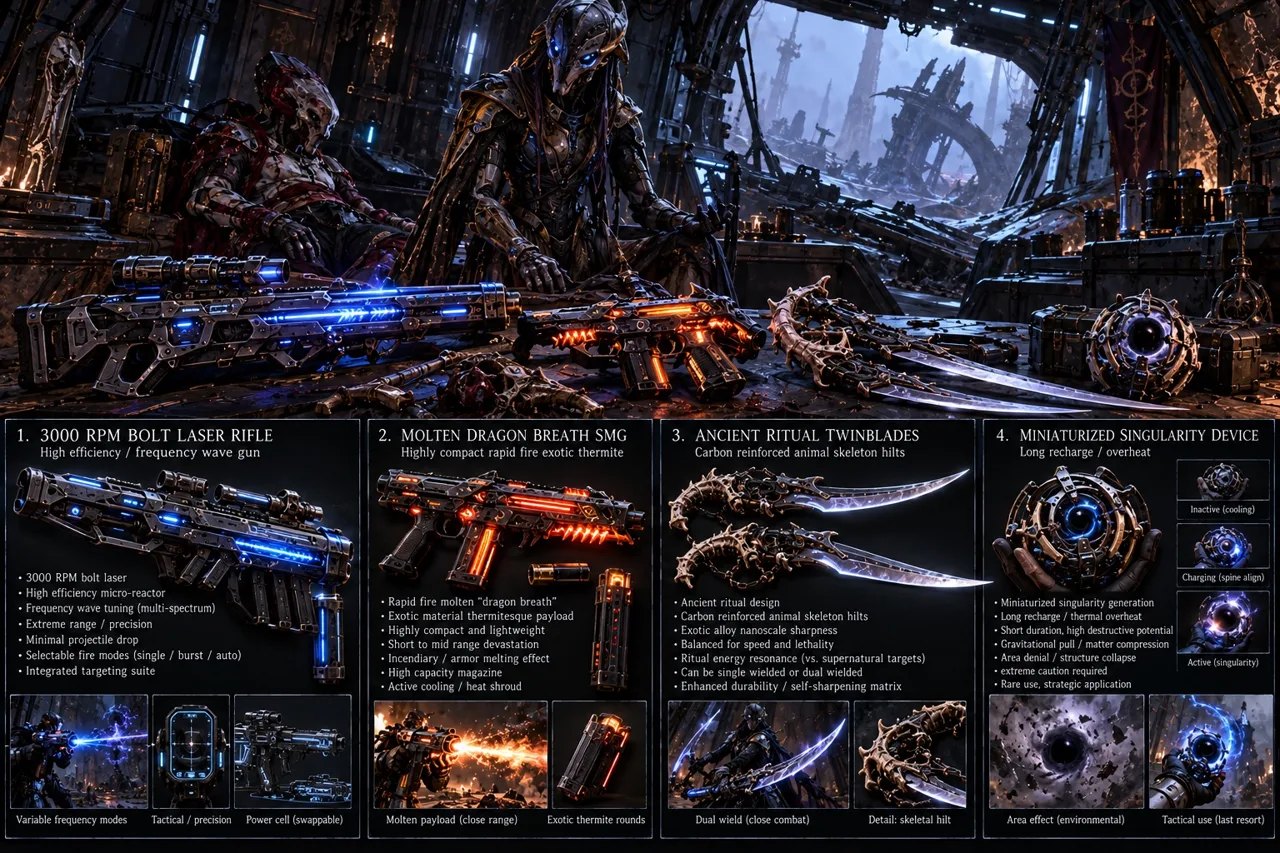
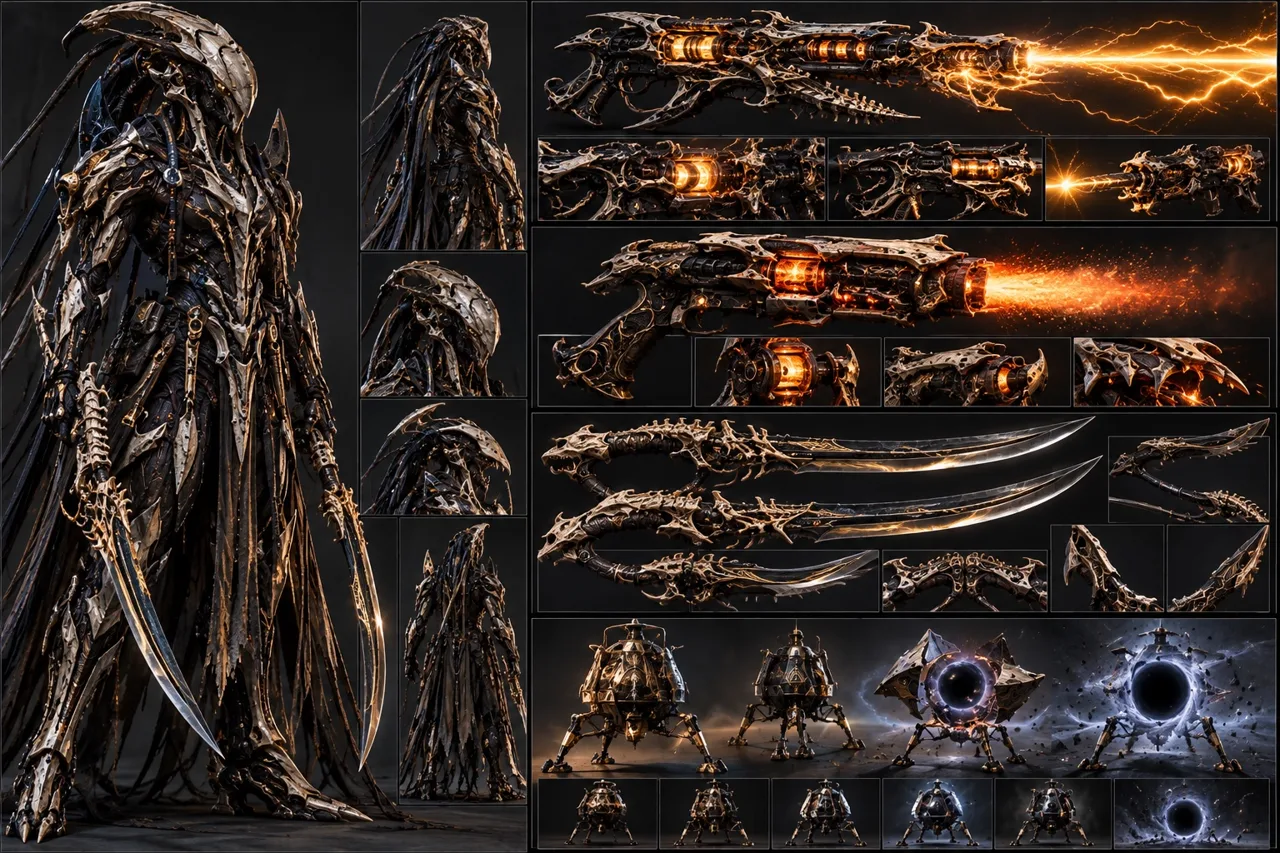
Use revised Alien sheet and supplied equipment identities

diff --git a/apps/item-web/lib/character-loadouts.ts b/apps/item-web/lib/character-loadouts.ts
@@ -9,11 +9,11 @@ export const STARTING_LOADOUTS:Record<string,StartingLoadout>={
  'knight-aldric':{id:'knight-1',name:'AK / katana',image:'knight-1.webp',source:'0FE6D164-3A28-4DF9-BBF0-90B44742FB2A(1).jpeg',status:'reference-approved',equipment:['AK-47','Glock 18','SPAS-12','Masamune replica katana']},
  'knight-cassian':{id:'knight-2',name:'SBR / Excalibur',image:'knight-2.webp',source:'18A13DE7-BB39-4526-9018-BD589E0D0606(1).jpeg',status:'reference-approved',equipment:['Suppressed SBR','Akimbo Colt King Cobra','McMillan TAC-50','Excalibur replica']},
  'knight-rook':{id:'knight-3',name:'MP5 / gladius',image:'knight-3.webp',source:'177EC8A8-422B-4CDE-9A46-95E673E70DB3(1).jpeg',status:'reference-approved',equipment:['MP5','Desert Eagle','MG3','Mainz gladius replica']},
- "alien-saela":{"id": "alien-1", "name": "Astral arsenal", "image": "alien-1.webp", "source": "8691E3C5-6A5F-4E8B-AFA4-3B1BCDE8BE76(1).jpeg", "status": "reference-approved", "equipment": ["Ringed energy cannon", "Mechanical jaw gauntlet", "Orbital crescent staff", "Ultraviolet energy lance"], "provisionalNames": true},
+ "alien-saela":{"id": "alien-1", "name": "Astral arsenal", "image": "alien-1.webp", "source": "8691E3C5-6A5F-4E8B-AFA4-3B1BCDE8BE76(1).jpeg", "status": "reference-approved", "equipment": ["Magneto-fusion pulse heavy beam", "Predator-skull scissor gauntlet", "The Star Summoner", "The Negation Ray"]},
  "alien-nyrra":{"id": "alien-2", "name": "Reactor / shrieker", "image": "alien-2.webp", "source": "IMG_6029(1).jpeg", "status": "reference-approved", "equipment": ["Reactor laser rifle", "Invertocavitation sidearm", "Alien shrieker", "Twin-blade glaive"]},
- "alien-ithara":{"id": "alien-3", "name": "Bolt laser / singularity", "image": "alien-3.webp", "source": "8CCC8659-AD25-49B6-9B83-0F4B0DEE33FF(1).jpeg", "status": "reference-approved", "equipment": ["Bolt laser rifle", "Molten dragon-breath SMG", "Ancient ritual twinblades", "Miniaturized singularity device"]},
+ "alien-ithara":{"id": "alien-3", "name": "Lightning / singularity", "image": "alien-3.webp", "source": "7DE92A7B-F259-40A1-84DA-D1BB48619760.jpeg", "status": "reference-approved", "equipment": ["Micro-reactor lightning rifle", "Molten dragon-breath shotgun pistol", "Ancient ritual twinblades", "Miniaturized singularity device"]},
  "cyborg-parallax":{"id": "cyborg-1", "name": "Axe / drone forge", "image": "cyborg-1.webp", "source": "9CB83F57-195D-44C2-AA95-6A2F47A476B0.jpeg", "status": "reference-approved", "equipment": ["White-hot double axe / warhammer", "Shoulder-mounted twin machine guns", "Miniature drone dispenser", "High-temperature wrist laser"]},
  "cyborg-nacre":{"id": "cyborg-2", "name": "Minigun / forearm lance", "image": "cyborg-2.webp", "source": "IMG_6030.jpeg", "status": "reference-approved", "equipment": ["Exo-arm minigun", "Dual-barrel magazine pump", "Vector-derived handgun", "Forearm lance"]},
- "cyborg-axiom":{"id": "cyborg-3", "name": "Barrage / optic beam", "image": "cyborg-3.webp", "source": "7294DE17-16BF-4122-9833-C30BAFBFFC20.jpeg", "status": "reference-approved", "equipment": ["Multi-barrel forearm launcher", "Powered forearm claws", "Shoulder-mounted drum launcher", "Twin optic beams"], "provisionalNames": true},
+ "cyborg-axiom":{"id": "cyborg-3", "name": "Barrage / optic beam", "image": "cyborg-3.webp", "source": "7294DE17-16BF-4122-9833-C30BAFBFFC20.jpeg", "status": "reference-approved", "equipment": ["Folding arm rocket pod", "Rocket-assisted slab-and-claw fist", "Shoulder-fired automatic grenade launcher", "Golden laser eyes"]},
 };
 export const loadoutFor=(profile:CharacterProfile)=>STARTING_LOADOUTS[profile.id]??null;

diff --git a/docs/prototypes/complete-roster-references.md b/docs/prototypes/complete-roster-references.md
@@ -2,7 +2,7 @@
 
 The six follow-up user uploads complete three reference loadouts in each of Witch, Knight, Alien and Cyborg. The first three follow-up sheets are assigned to existing Alien variants in upload order; the last three to existing Cyborg variants. Existing character IDs, names and save schema are unchanged.
 
-The unlabeled astral Alien sheet and launcher/claw Cyborg sheet use provisional descriptive equipment names, explicitly disclosed in the selection UI. Labeled sheets retain their fictional equipment identities. These are reference definitions and artwork, not a claim that all weapons or their simulated behavior are implemented.
+The unlabeled astral Alien and launcher/claw Cyborg sheets now use equipment identities supplied in the user’s design context. The third Alien reference was superseded by the follow-up lightning-rifle / shotgun-pistol / twinblade / tripod-singularity sheet. Labeled sheets retain their fictional equipment identities. These are reference definitions and artwork, not a claim that all weapons or their simulated behavior are implemented.
 
 Change gate: AETIMM candidate after verification. Confirmed user request supplies the previously pending six designs. Bounded fix: six optimized WebP derivatives, metadata, selection copy and extension of the existing twelve-ID coverage check. No new dependency or backend change. Original uploads are not modified. Revert this commit to restore the pending slots; saves remain valid.
 
